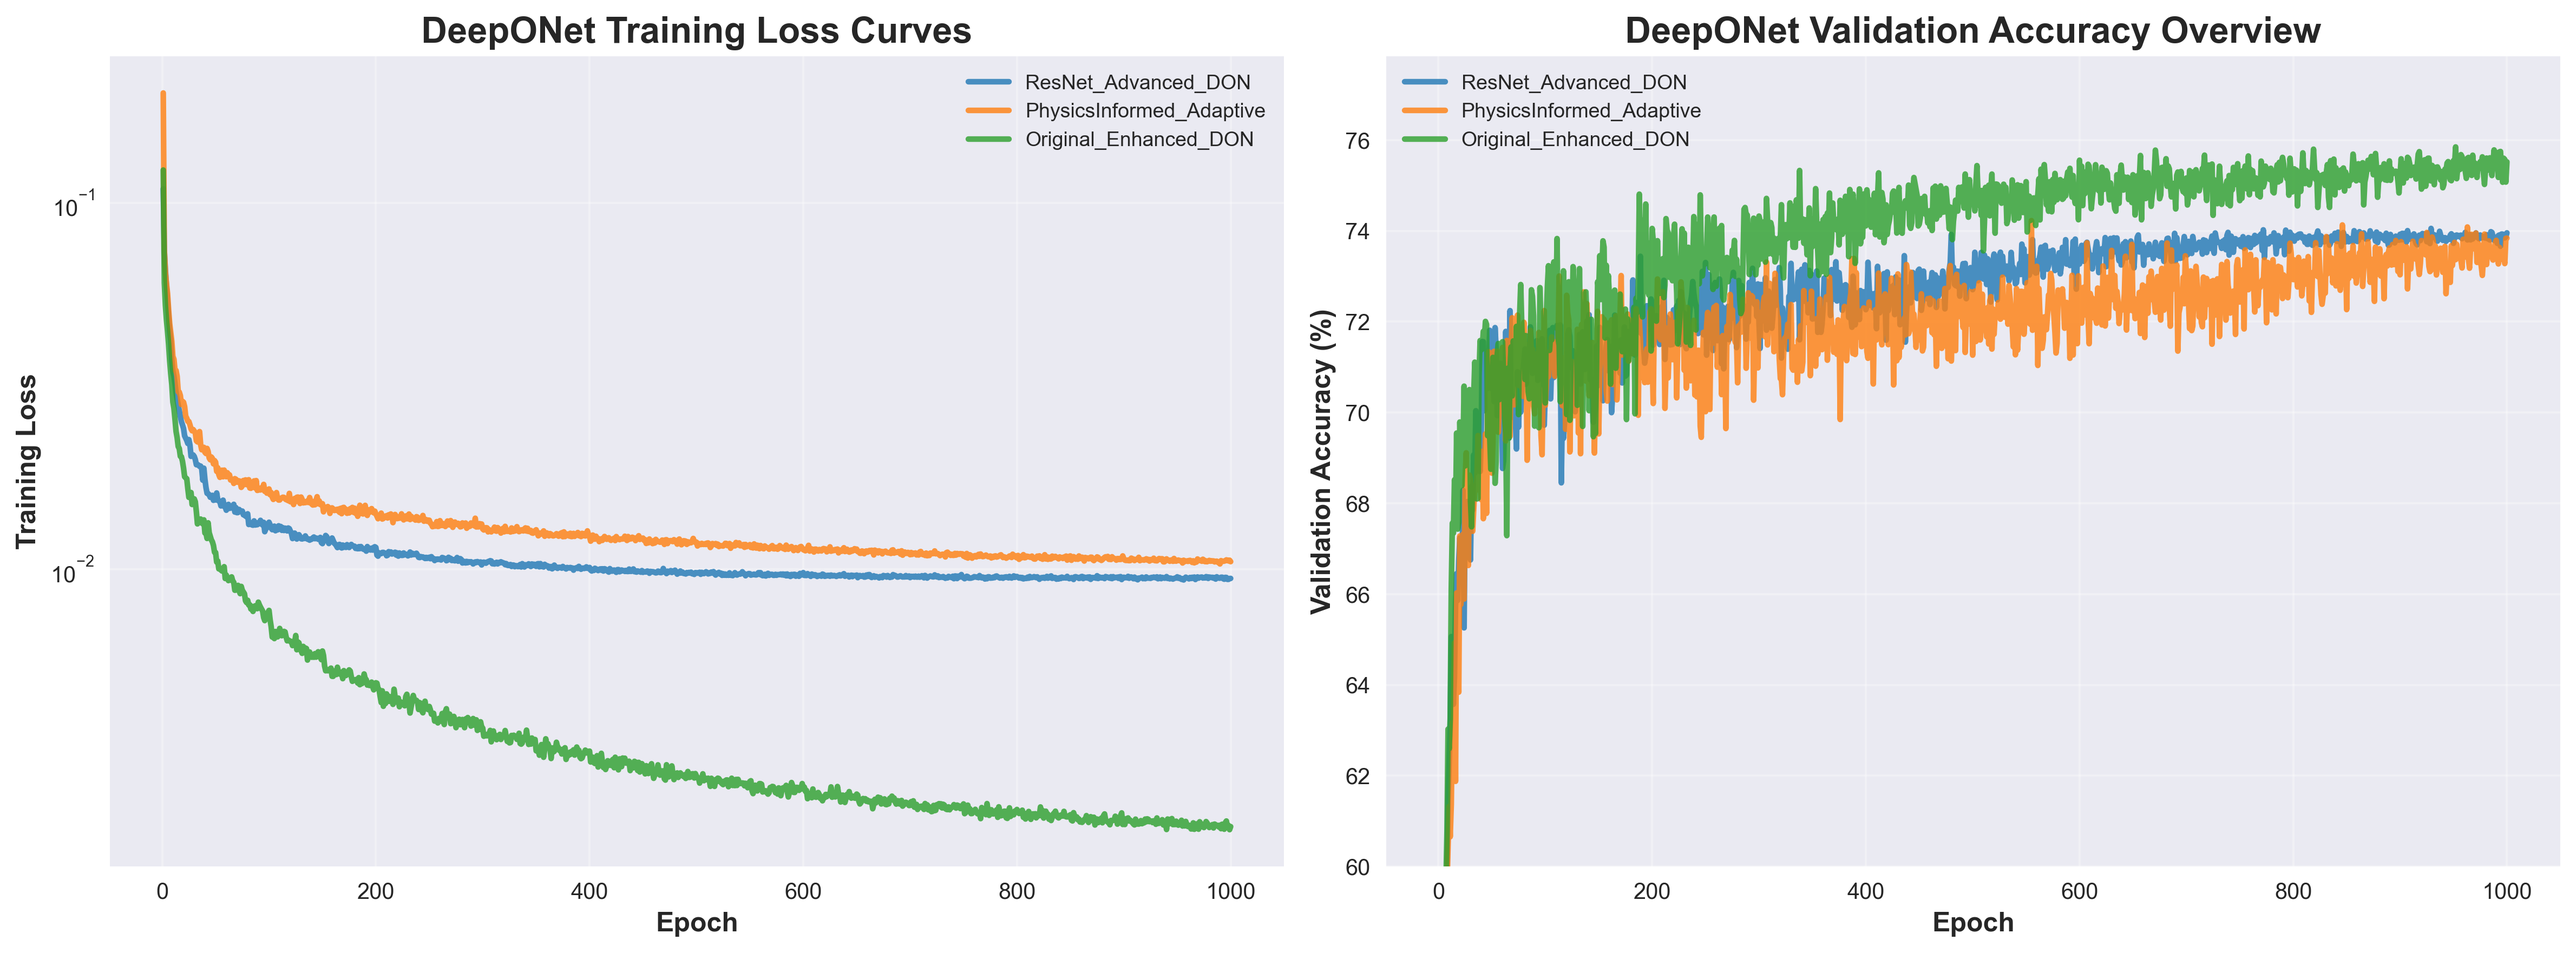
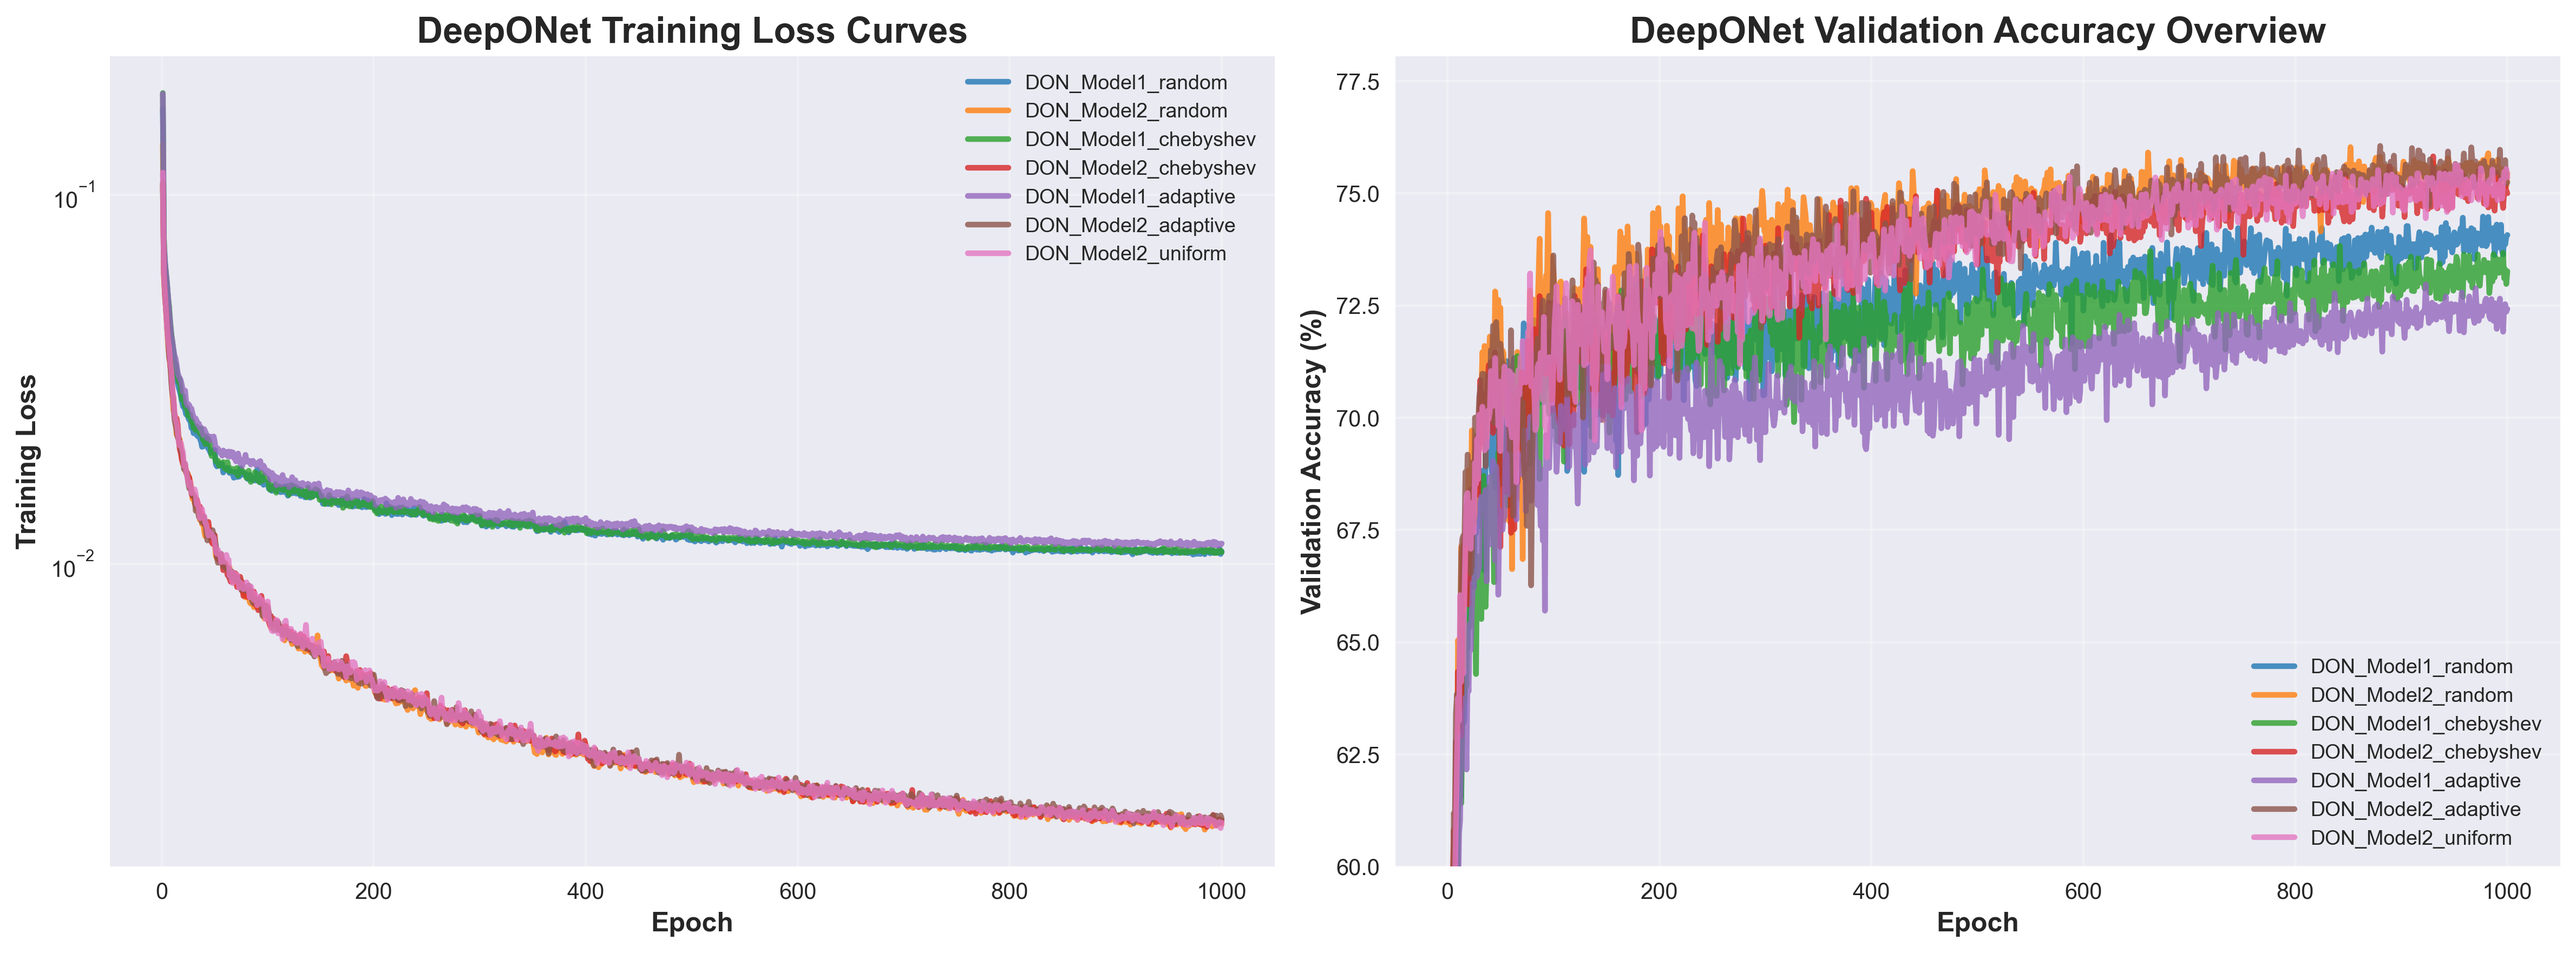
ok

diff --git a/main.py b/main.py
@@ -127,7 +127,7 @@ if __name__ == "__main__":
             device,
             "DeepONet_Model1_adaptive",
             grid_size=GRID_SIZE,
-            n_sensors=3500,             # More sensors with adaptive
+            n_sensors=200,             # More sensors with adaptive
             hidden_size=280,            # Good capacity
             num_layers=6,               # Moderate depth
             activation='gelu',
@@ -146,7 +146,7 @@ if __name__ == "__main__":
             device,
             "DeepONet_Model2_adaptive",
             grid_size=GRID_SIZE,
-            n_sensors=3800,             # Your original sensor count
+            n_sensors=200,             # Your original sensor count
             hidden_size=256,            # Your original hidden size
             num_layers=6,               # Your original layers
             activation='gelu',
@@ -164,7 +164,7 @@ if __name__ == "__main__":
             device,
             "DeepONet_Model1_adaptive",
             grid_size=GRID_SIZE,
-            n_sensors=3500,             # More sensors with adaptive
+            n_sensors=200,             # More sensors with adaptive
             hidden_size=280,            # Good capacity
             num_layers=6,               # Moderate depth
             activation='gelu',
@@ -183,7 +183,7 @@ if __name__ == "__main__":
             device,
             "DeepONet_Model2_uniform",
             grid_size=GRID_SIZE,
-            n_sensors=3800,             # Your original sensor count
+            n_sensors=200,             # Your original sensor count
             hidden_size=256,            # Your original hidden size
             num_layers=6,               # Your original layers
             activation='gelu',
